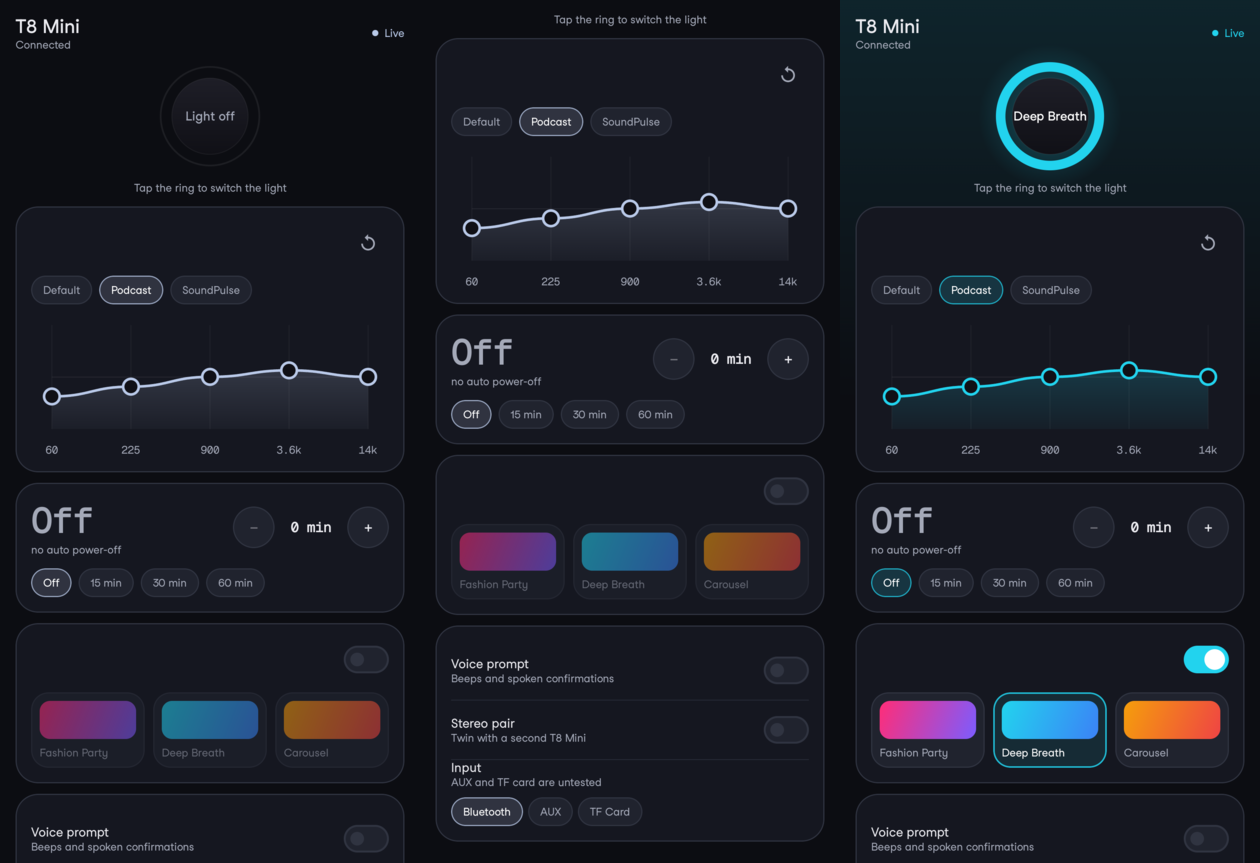
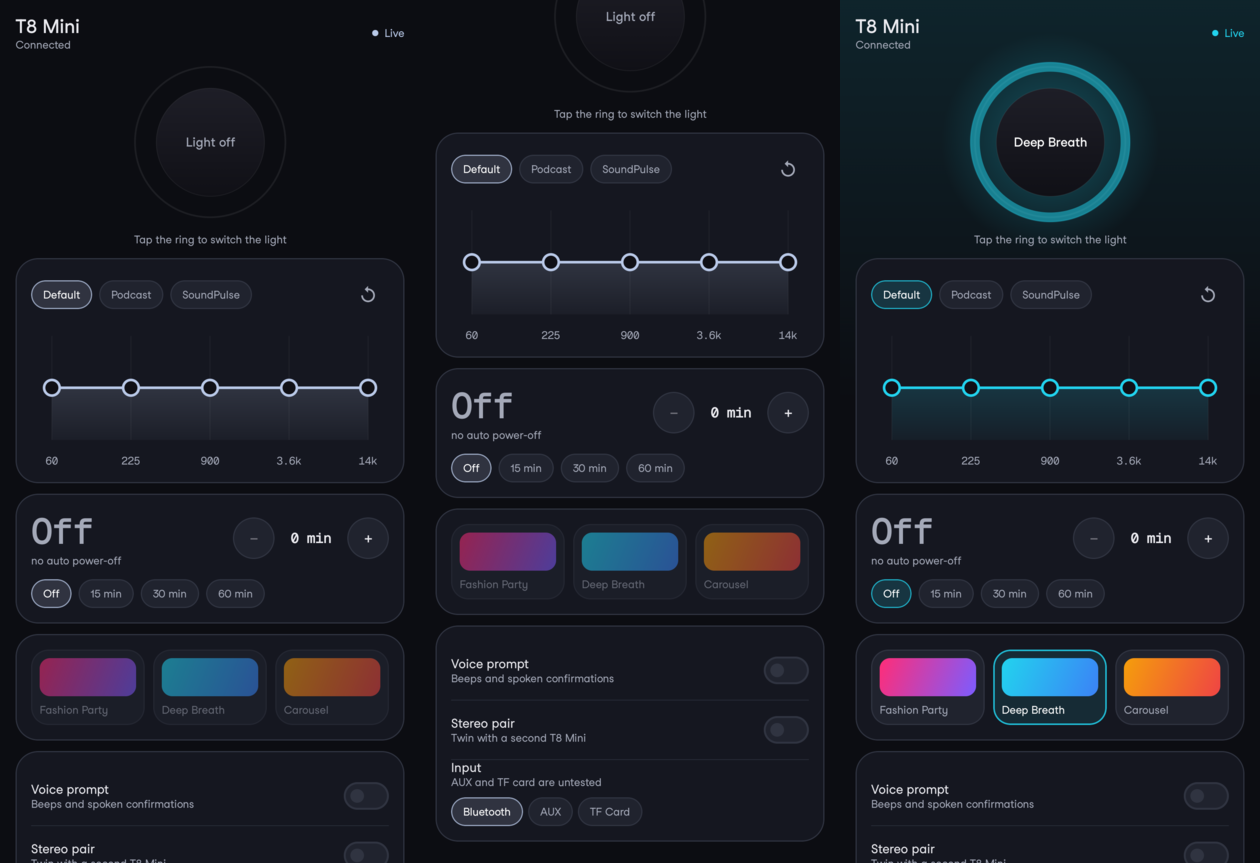
fix: tighten speaker control layout

diff --git a/app/src/main/kotlin/dev/dasun/t8mini/ui/SpeakerScreen.kt b/app/src/main/kotlin/dev/dasun/t8mini/ui/SpeakerScreen.kt
@@ -50,8 +50,6 @@ import androidx.compose.ui.graphics.Color
 import androidx.compose.ui.hapticfeedback.HapticFeedbackType
 import androidx.compose.ui.platform.LocalHapticFeedback
 import androidx.compose.ui.res.painterResource
-import androidx.compose.ui.semantics.contentDescription
-import androidx.compose.ui.semantics.semantics
 import androidx.compose.ui.text.style.TextAlign
 import androidx.compose.ui.unit.dp
 import androidx.compose.ui.unit.sp
@@ -118,7 +116,7 @@ fun SpeakerScreen(vm: SpeakerViewModel) {
             Box(
                 Modifier
                     .fillMaxWidth()
-                    .height(150.dp)
+                    .height(210.dp)
                     .padding(horizontal = 40.dp, vertical = 4.dp)
                     .clickable(
                         interactionSource = remember { MutableInteractionSource() },
@@ -134,7 +132,7 @@ fun SpeakerScreen(vm: SpeakerViewModel) {
                     ledOn = state.ledOn,
                     mode = state.ledMode,
                     connected = ready,
-                    modifier = Modifier.size(142.dp),
+                    modifier = Modifier.size(202.dp),
                 )
             }
 
@@ -157,7 +155,7 @@ fun SpeakerScreen(vm: SpeakerViewModel) {
 
                 Spacer(Modifier.height(12.dp))
 
-                LightCard(state = state, accent = accent, vm = vm)
+                LightCard(state = state, vm = vm)
 
                 Spacer(Modifier.height(12.dp))
 
@@ -173,46 +171,47 @@ fun SpeakerScreen(vm: SpeakerViewModel) {
 private fun SoundCard(state: SpeakerState, accent: Color, vm: SpeakerViewModel) {
     val podcastActive = state.customEq && Curves.matchesPodcast(state.bands)
 
-    SectionCard(
-        trailing = {
-            Row(verticalAlignment = Alignment.CenterVertically) {
-                if (state.customEq && !podcastActive) {
-                    Text("CUSTOM", style = MaterialTheme.typography.labelSmall, color = accent)
-                } else if (!state.customEq && state.eqPreset !in listOf(EqPreset.DEFAULT, EqPreset.SOUND_PULSE)) {
-                    Text(state.eqPreset.label, style = MaterialTheme.typography.labelSmall, color = accent)
-                }
-                IconButton(onClick = vm::resetEq, enabled = state.link == LinkState.Ready) {
-                    Icon(
-                        painter = painterResource(R.drawable.ic_reset),
-                        contentDescription = "Reset EQ",
-                        tint = TextDim,
-                    )
-                }
+    SectionCard {
+        Row(Modifier.fillMaxWidth(), verticalAlignment = Alignment.CenterVertically) {
+            FlowRow(
+                modifier = Modifier.weight(1f),
+                horizontalArrangement = Arrangement.spacedBy(8.dp),
+                verticalArrangement = Arrangement.spacedBy(8.dp),
+            ) {
+                Pill(
+                    text = "Default",
+                    selected = !state.customEq && state.eqPreset == EqPreset.DEFAULT,
+                    accent = accent,
+                    onClick = { vm.setPreset(EqPreset.DEFAULT) },
+                )
+                Pill(
+                    text = "Podcast",
+                    selected = podcastActive,
+                    accent = accent,
+                    onClick = vm::setPodcast,
+                )
+                Pill(
+                    text = "SoundPulse",
+                    selected = !state.customEq && state.eqPreset == EqPreset.SOUND_PULSE,
+                    accent = accent,
+                    onClick = { vm.setPreset(EqPreset.SOUND_PULSE) },
+                )
             }
-        },
-    ) {
-        FlowRow(
-            modifier = Modifier.fillMaxWidth(),
-            horizontalArrangement = Arrangement.spacedBy(8.dp),
-            verticalArrangement = Arrangement.spacedBy(8.dp),
-        ) {
-            Pill(
-                text = "Default",
-                selected = !state.customEq && state.eqPreset == EqPreset.DEFAULT,
-                accent = accent,
-                onClick = { vm.setPreset(EqPreset.DEFAULT) },
-            )
-            Pill(
-                text = "Podcast",
-                selected = podcastActive,
-                accent = accent,
-                onClick = vm::setPodcast,
-            )
-            Pill(
-                text = "SoundPulse",
-                selected = !state.customEq && state.eqPreset == EqPreset.SOUND_PULSE,
-                accent = accent,
-                onClick = { vm.setPreset(EqPreset.SOUND_PULSE) },
+            IconButton(onClick = vm::resetEq, enabled = state.link == LinkState.Ready) {
+                Icon(
+                    painter = painterResource(R.drawable.ic_reset),
+                    contentDescription = "Reset EQ",
+                    tint = TextDim,
+                )
+            }
+        }
+
+        if (!state.customEq && state.eqPreset !in listOf(EqPreset.DEFAULT, EqPreset.SOUND_PULSE)) {
+            Text(
+                state.eqPreset.label,
+                modifier = Modifier.fillMaxWidth().padding(top = 8.dp),
+                style = MaterialTheme.typography.bodySmall,
+                color = TextDim,
             )
         }
 
@@ -304,22 +303,8 @@ private fun TimerCard(state: SpeakerState, accent: Color, vm: SpeakerViewModel) 
 }
 
 @Composable
-private fun LightCard(state: SpeakerState, accent: Color, vm: SpeakerViewModel) {
-    SectionCard(
-        trailing = {
-            Switch(
-                modifier = Modifier.semantics { contentDescription = "Light" },
-                checked = state.ledOn,
-                onCheckedChange = vm::setLed,
-                colors = SwitchDefaults.colors(
-                    checkedThumbColor = Color.White,
-                    checkedTrackColor = accent,
-                    uncheckedTrackColor = Surface2,
-                    uncheckedBorderColor = Line,
-                ),
-            )
-        },
-    ) {
+private fun LightCard(state: SpeakerState, vm: SpeakerViewModel) {
+    SectionCard {
         Row(Modifier.fillMaxWidth(), horizontalArrangement = Arrangement.spacedBy(10.dp)) {
             LedMode.entries.forEach { mode ->
                 ModeTile(
@@ -425,7 +410,6 @@ private fun Header(state: SpeakerState, accent: Color, onConnect: () -> Unit) {
 
 @Composable
 private fun SectionCard(
-    trailing: (@Composable () -> Unit)? = null,
     content: @Composable ColumnScope.() -> Unit,
 ) {
     Column(
@@ -436,12 +420,6 @@ private fun SectionCard(
             .border(1.dp, Line, RoundedCornerShape(26.dp))
             .padding(18.dp),
     ) {
-        if (trailing != null) {
-            Row(Modifier.fillMaxWidth(), horizontalArrangement = Arrangement.End, verticalAlignment = Alignment.CenterVertically) {
-                trailing()
-            }
-            Spacer(Modifier.height(14.dp))
-        }
         content()
     }
 }
